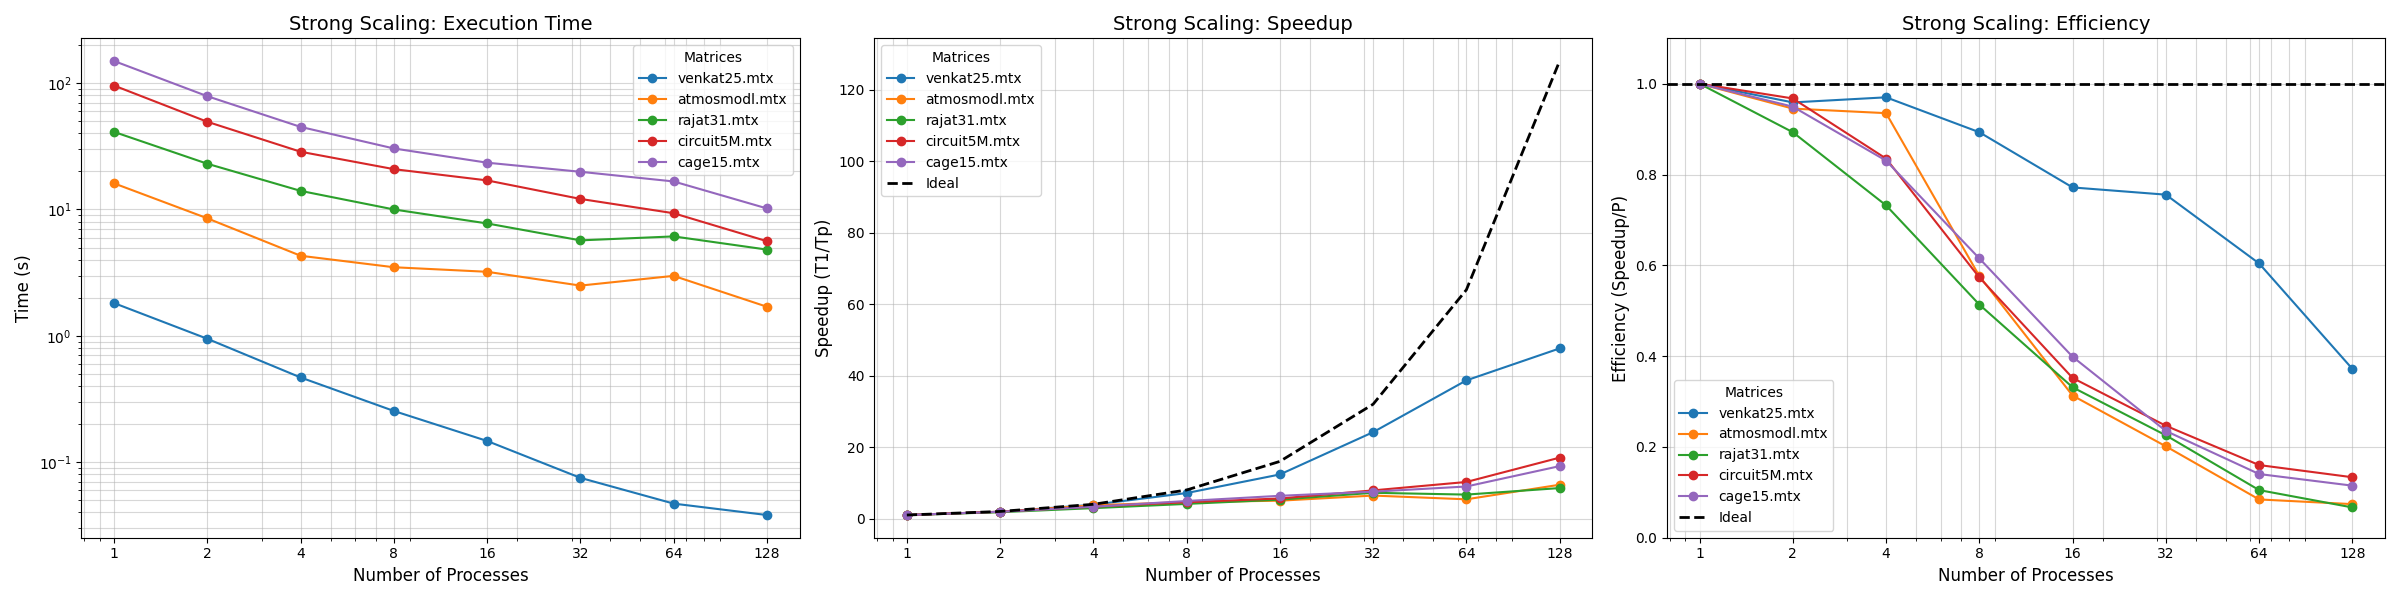
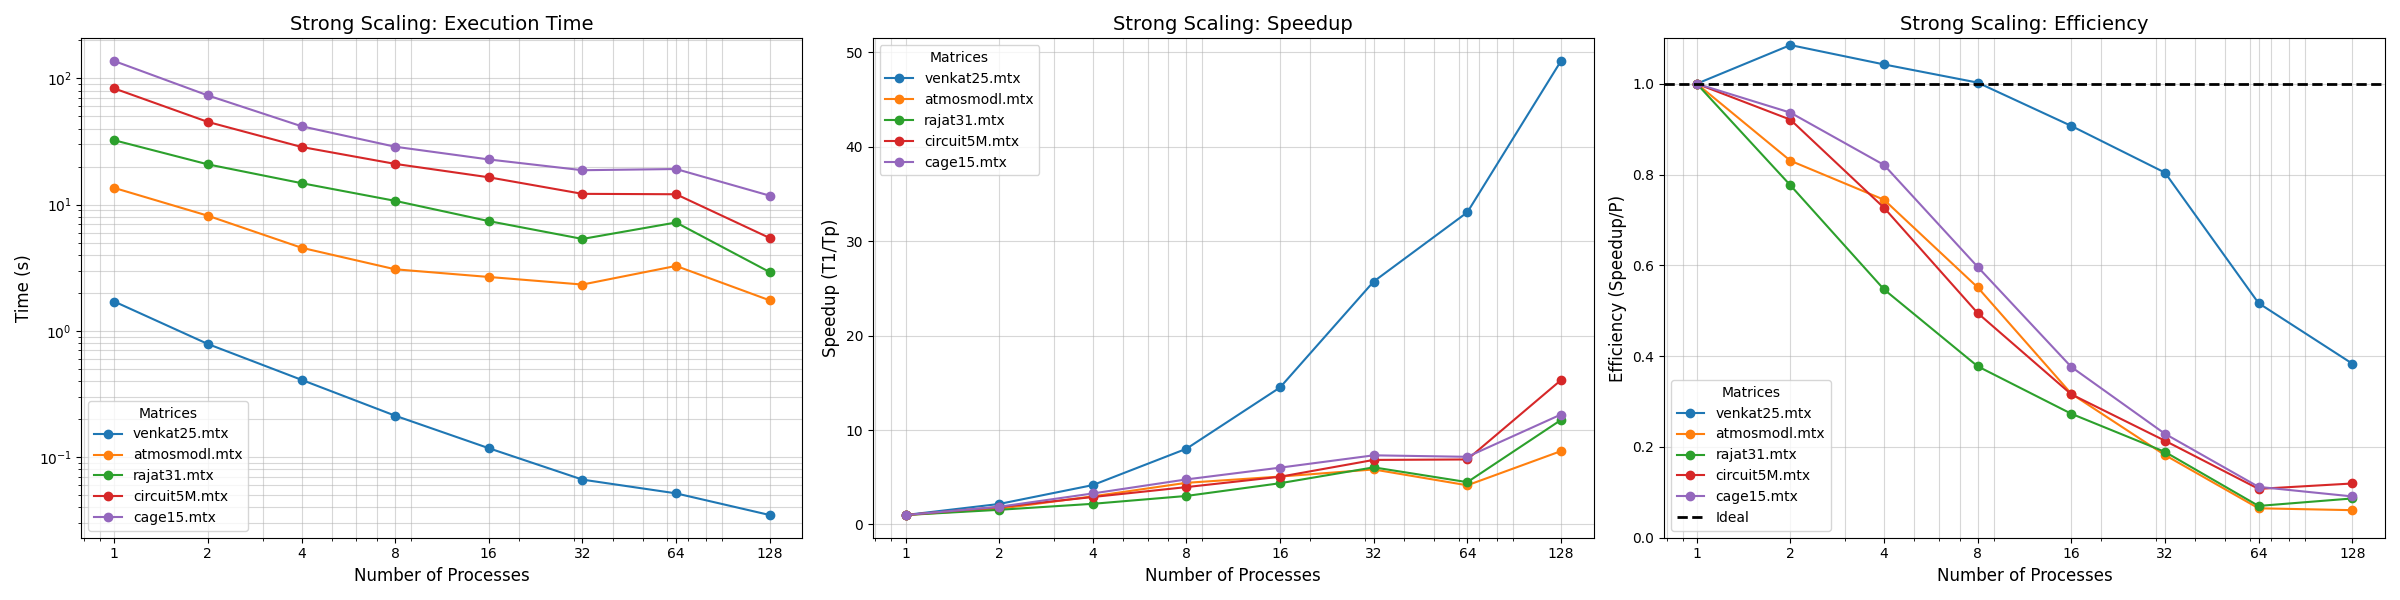
Modified scripts and results

diff --git a/D2/scripts/plots_strong_scaling.py b/D2/scripts/plots_strong_scaling.py
@@ -79,17 +79,18 @@ ax1.grid(True, which="both", ls="-", alpha=0.5)
 ax1.legend(plotted_matrices, title="Matrices")
 
 # Plot 2: Speedup
-ideal_x = ticks_x
-ax2.plot(ideal_x, ideal_x, 'k--', label='Ideal', linewidth=2)
+# ideal_x = ticks_x
+# ax2.plot(ideal_x, ideal_x, 'k--', label='Ideal', linewidth=2)
 
 ax2.set_title('Strong Scaling: Speedup', fontsize=14)
 ax2.set_xlabel('Number of Processes', fontsize=12)
 ax2.set_ylabel('Speedup (T1/Tp)', fontsize=12)
 ax2.set_xscale('log')
-ax2.set_xticks(ideal_x)
-ax2.set_xticklabels(ideal_x)
+ax2.set_xticks(ticks_x)
+ax2.set_xticklabels(ticks_x)
 ax2.grid(True, which="both", ls="-", alpha=0.5)
-ax2.legend(plotted_matrices + ['Ideal'], title="Matrices")
+# ax2.legend(plotted_matrices + ['Ideal'], title="Matrices")
+ax2.legend(plotted_matrices, title="Matrices")
 
 # Plot 3: Efficiency
 ax3.axhline(y=1.0, color='k', linestyle='--', label='Ideal (1.0)', linewidth=2)
@@ -98,8 +99,8 @@ ax3.set_title('Strong Scaling: Efficiency', fontsize=14)
 ax3.set_xlabel('Number of Processes', fontsize=12)
 ax3.set_ylabel('Efficiency (Speedup/P)', fontsize=12)
 ax3.set_xscale('log')
-ax3.set_xticks(ideal_x)
-ax3.set_xticklabels(ideal_x)
+ax3.set_xticks(ticks_x)
+ax3.set_xticklabels(ticks_x)
 ax3.set_ylim(0, 1.1) # Efficiency typically between 0 and 1
 ax3.grid(True, which="both", ls="-", alpha=0.5)
 ax3.legend(plotted_matrices + ['Ideal'], title="Matrices")

diff --git a/D2/scripts/plots_strong_scaling_bars.py b/D2/scripts/plots_strong_scaling_bars.py
@@ -9,7 +9,7 @@ parent_dir = os.path.dirname(script_dir)
 
 INPUT_FILE = os.path.join(parent_dir, 'results', 'strong_scaling.csv') 
 OUTPUT_DIR = os.path.join(parent_dir, 'plots')
-OUTPUT_FILE = 'strong_scaling_breakdown_side_by_side.png'
+OUTPUT_FILE = 'strong_scaling_bars.png'
 
 # Matrix list
 MATRIX_ORDER = [
